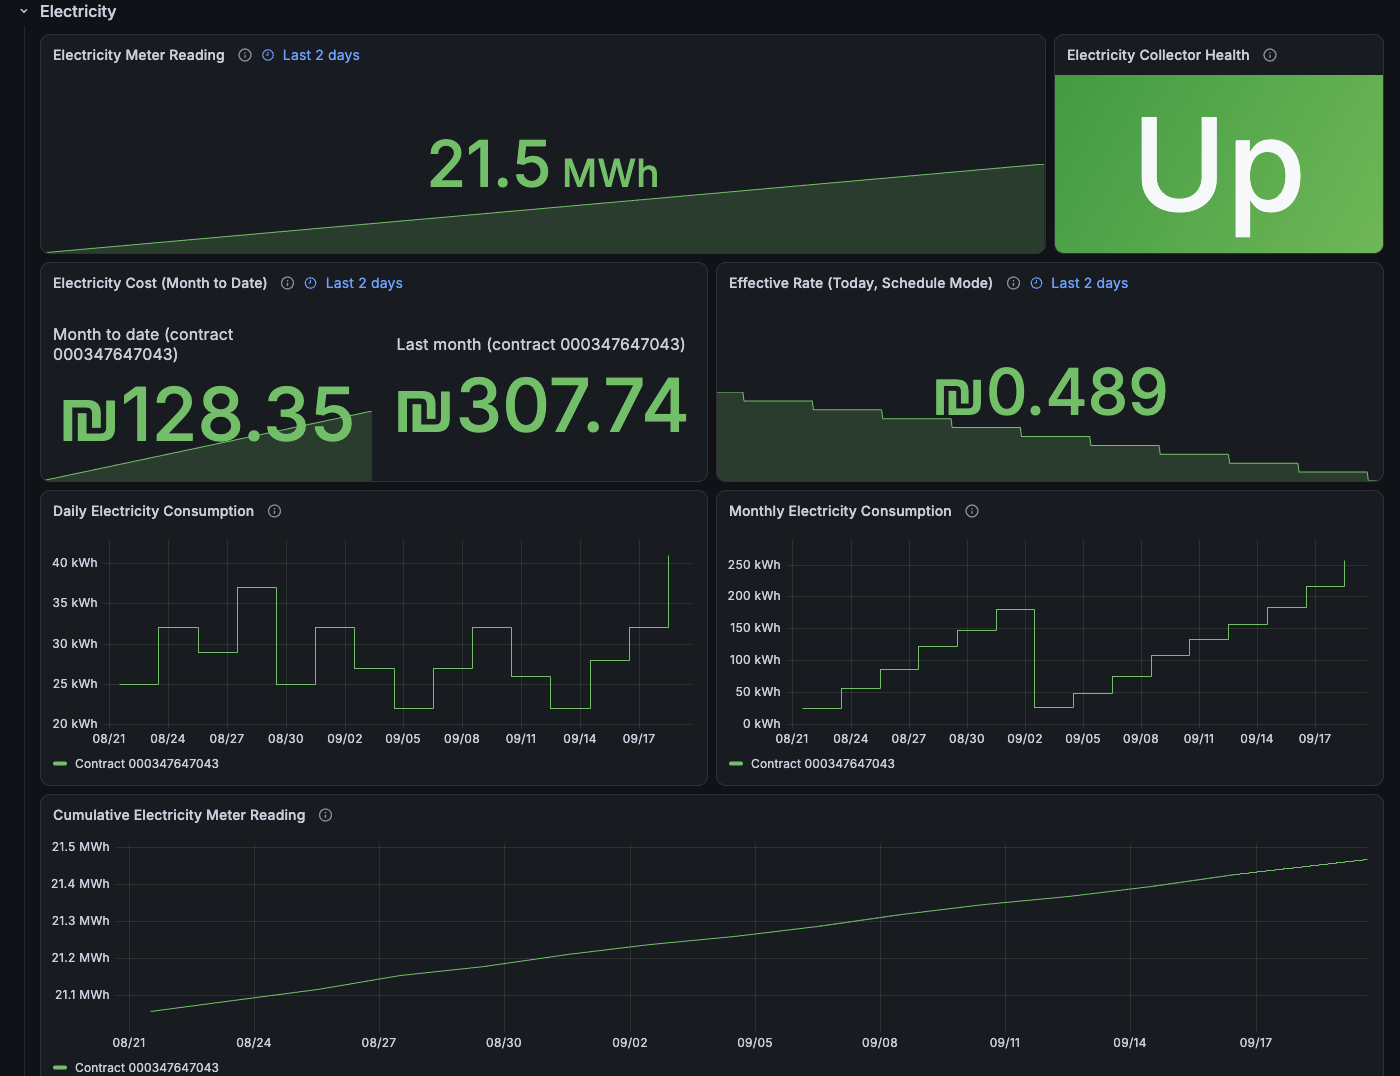
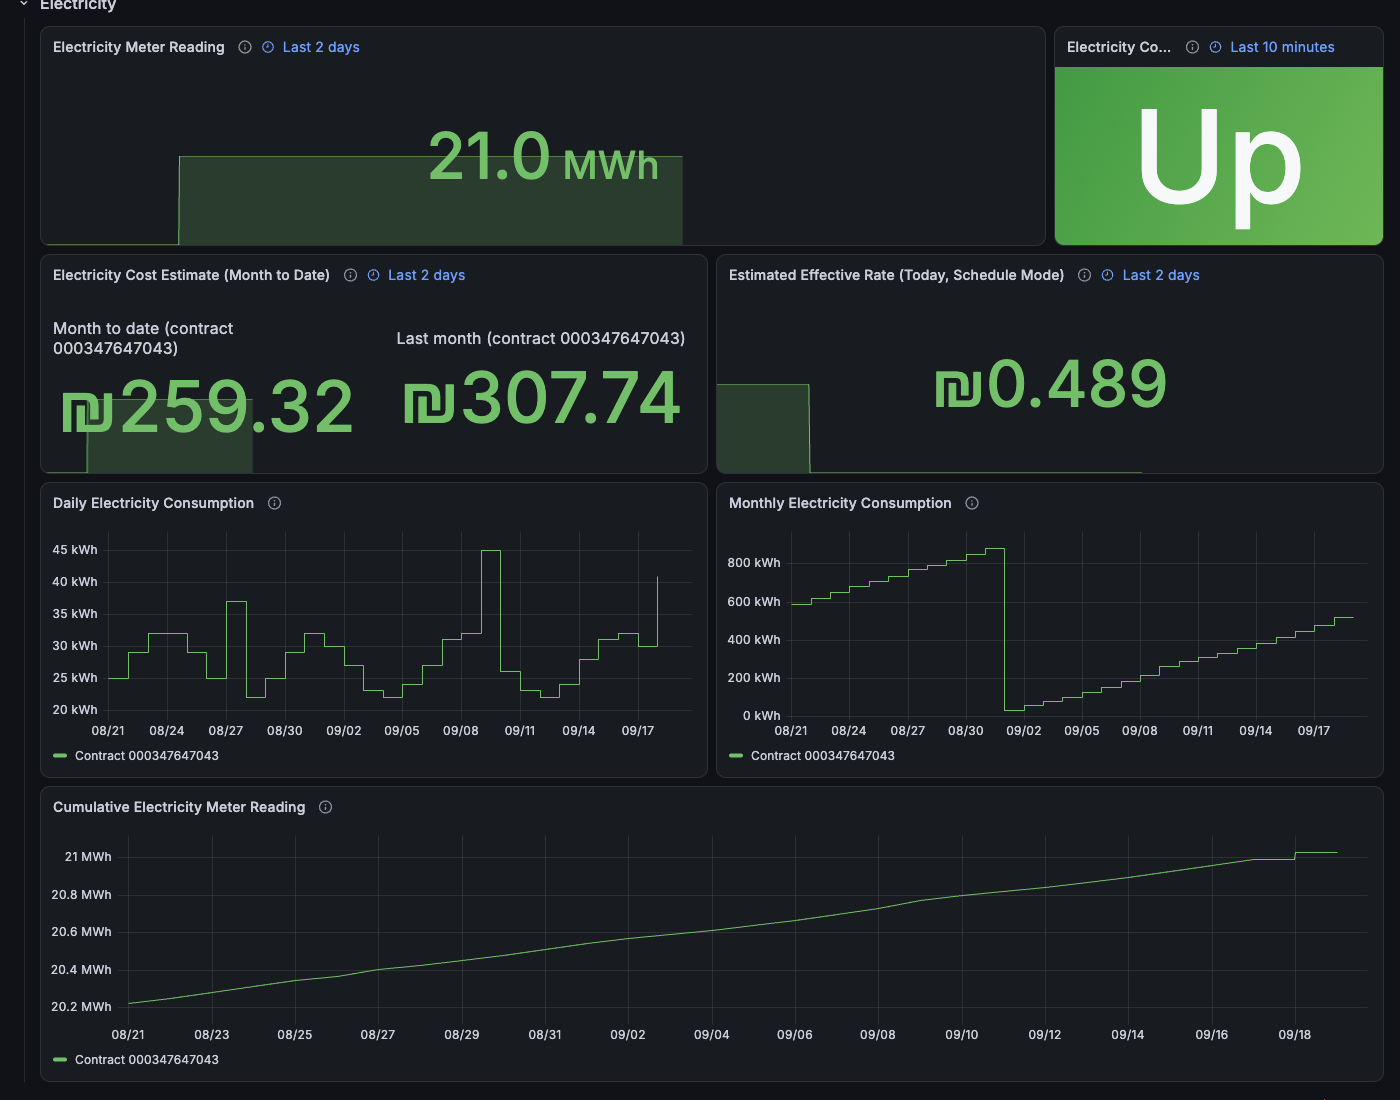
fix: label pricing panels as estimates, refresh screenshots
Every dashboard panel showing a cost or rate figure now says so in its
title, not just its description, since these are all priced with
today's tariff config against reported consumption, not a figure the
utility itself has billed.

Also regenerates both doc screenshots from a demo seed that drives the
real collectWater/collectElectricity backfill functions against a fake
portal, instead of a hand-rolled reimplementation of their pricing
logic — closer to what an actual backfill run produces.

diff --git a/CHANGELOG.md b/CHANGELOG.md
@@ -93,6 +93,15 @@ headings in the `## [x.y.z] - YYYY-MM-DD` form.
   portal/IEC API calls that can each take a couple of seconds, but at the
   default `LOG_LEVEL=info` a slow-but-working run and a genuinely hung one
   previously looked identical from the terminal.
+- Every dashboard panel showing a cost or rate figure now says so in its
+  title, not just its description: "Water Cost" → "Water Cost Estimate",
+  "Water Rate vs Normal (Tiered Mode)" → "Estimated Water Rate vs Normal
+  (Tiered Mode)", "Electricity Cost (Month to Date)" → "Electricity Cost
+  Estimate (Month to Date)", "Effective Rate (Today, Schedule Mode)" →
+  "Estimated Effective Rate (Today, Schedule Mode)". These are all priced
+  with today's tariff config against Prometheus-reported consumption, not a
+  figure the utility itself has billed — that caveat shouldn't require
+  opening the panel's description to see.
 
 ### Fixed
 
